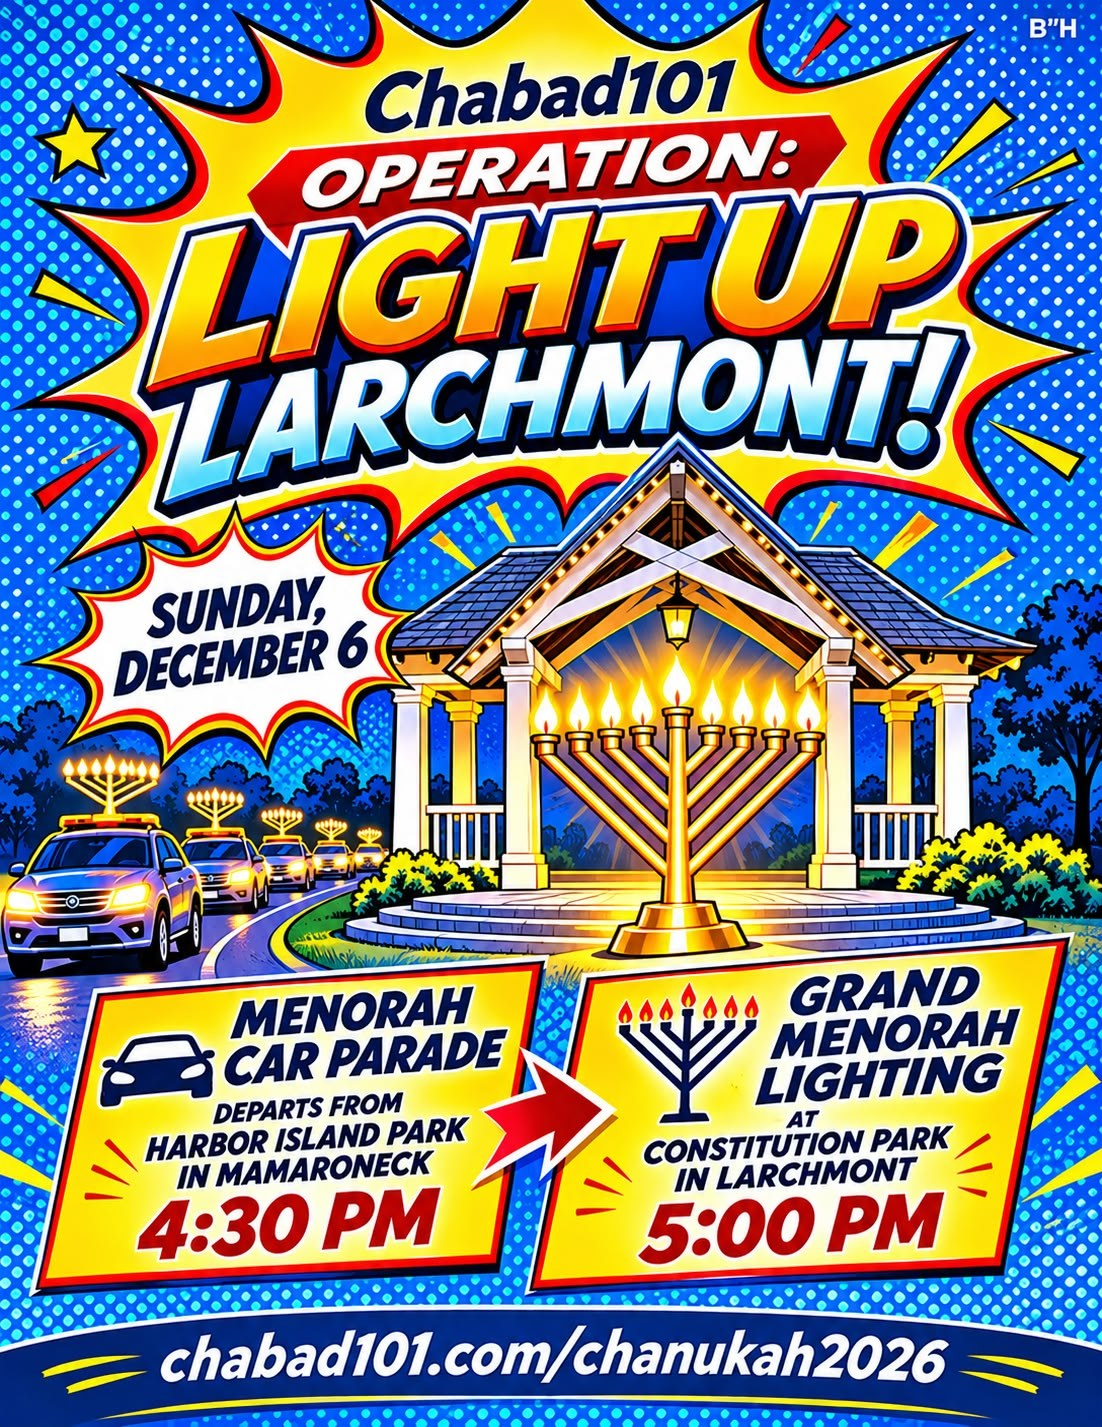
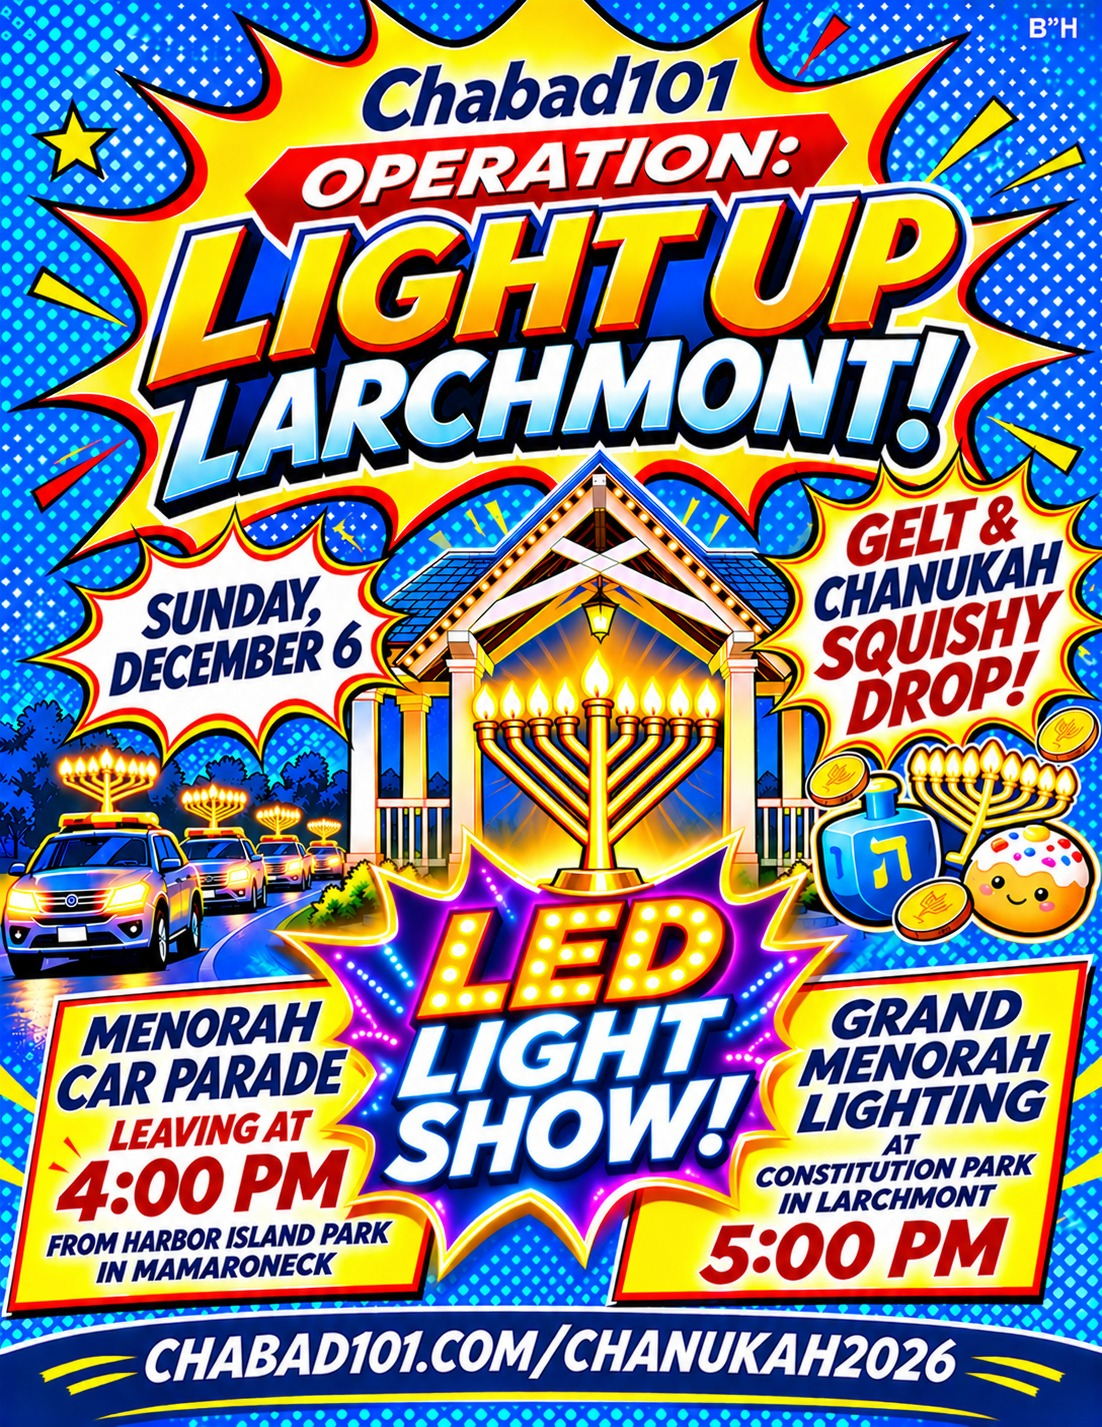
Sunday: new flyer; gather 3:00, parade 4:00, lighting 5:00

diff --git a/sunday.html b/sunday.html
@@ -44,14 +44,14 @@ footer a{color:var(--gold2);font-weight:800}
 <p class="tag">The whole community together as the menorah lights up Constitution Park, with entertainment for the whole family.</p>
 <div class="when">5:00 pm · <span>Constitution Park, Larchmont</span></div>
 <div class="ctas"><span class="pill free" style="font-size:14px;padding:6px 14px;margin:0">Free · No RSVP needed</span></div>
-<img class="flyer" src="sunday-flyer.jpg" alt="Chabad101 Operation: Light Up Larchmont! Sunday, December 6. Menorah car parade departs from Harbor Island Park in Mamaroneck at 4:30 PM. Grand menorah lighting at Constitution Park in Larchmont at 5:00 PM.">
+<img class="flyer" src="sunday-flyer.jpg" alt="Chabad101 Operation: Light Up Larchmont! Sunday, December 6. Menorah car parade leaving at 4:00 PM from Harbor Island Park in Mamaroneck. Grand menorah lighting at Constitution Park in Larchmont at 5:00 PM. LED light show, gelt and Chanukah squishy drop.">
 </section>
 <section class="plan gut"><div class="in"><h2>The lighting</h2><div class="steps">
-<div class="step big"><span class="t">5:00</span><div><b>Menorah lighting and entertainment <span class="pill free">Free</span></b><span>Constitution Park, Larchmont. Open to everyone, no RSVP needed. Entertainment details coming soon.</span></div></div>
+<div class="step big"><span class="t">5:00</span><div><b>Menorah lighting and entertainment <span class="pill free">Free</span></b><span>Constitution Park, Larchmont. Open to everyone, no RSVP needed. LED light show, plus a gelt and Chanukah squishy drop.</span></div></div>
 </div></div></section>
 <section class="plan gut" style="padding-top:0"><div class="in"><h2>Before the lighting: the car parade</h2><p class="lead">A line of cars with glowing menorahs leads the way to the lighting.</p><div class="steps">
-<div class="step"><span class="t">2:30</span><div><b>Gather at Harbor Island Park <span class="pill reg">Registered cars</span></b><span>2:30 to 3:30. Pick up your car menorah and swag for you and your car.</span></div></div>
-<div class="step"><span class="t">4:30</span><div><b>The menorah parade departs Harbor Island Park for Larchmont</b><span>A line of glowing menorahs through our towns.</span></div></div>
+<div class="step"><span class="t">3:00</span><div><b>Gather at Harbor Island Park <span class="pill reg">Registered cars</span></b><span>3:00 to 4:00. Pick up your car menorah and swag for you and your car.</span></div></div>
+<div class="step"><span class="t">4:00</span><div><b>The menorah parade departs Harbor Island Park for Larchmont</b><span>A line of glowing menorahs through our towns.</span></div></div>
 </div></div></section>
 <section class="gut" style="padding-bottom:56px"><div class="in box" style="border-color:var(--gold);text-align:center"><svg class="carart" viewBox="0 0 340 150" role="img" aria-label="A car with a glowing menorah on top">
     <defs><linearGradient id="g" x1="0" y1="0" x2="0" y2="1"><stop offset="0" stop-color="#ffe08a"/><stop offset="1" stop-color="#c88a12"/></linearGradient>

diff --git a/parade-header.html b/parade-header.html
@@ -18,4 +18,4 @@ p{margin:8px 0 0;color:#cdd8ff;font-weight:700;font-size:clamp(13px,3.4vw,16px)}
     <rect x="22" y="104" width="296" height="26" rx="12" fill="#3b5fd0"/>
     <circle cx="84" cy="132" r="15" fill="#0b1440" stroke="#9fb2ee" stroke-width="4"/><circle cx="258" cy="132" r="15" fill="#0b1440" stroke="#9fb2ee" stroke-width="4"/>
     <rect x="306" y="110" width="12" height="8" rx="3" fill="#ffd77a"/>
-  </svg><div class="k">Sunday, Dec 6</div><h1>Menorah Car Parade</h1><p>Gather 2:30 at Harbor Island Park · Parade leaves 4:30<br>Register your car below</p></div></body></html>
+  </svg><div class="k">Sunday, Dec 6</div><h1>Menorah Car Parade</h1><p>Gather 3:00 at Harbor Island Park · Parade leaves 4:00<br>Register your car below</p></div></body></html>
